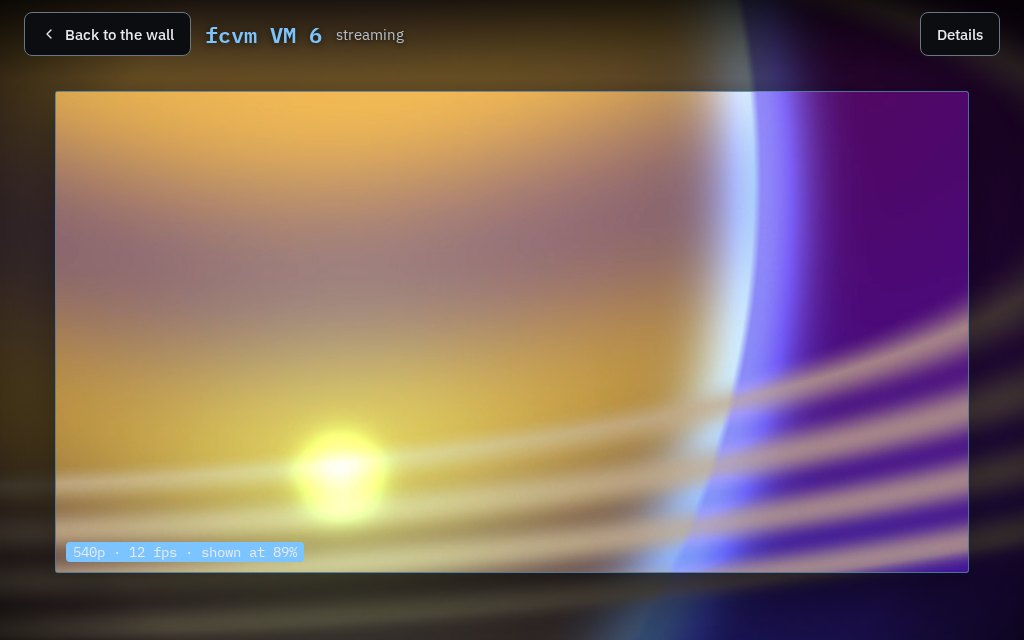
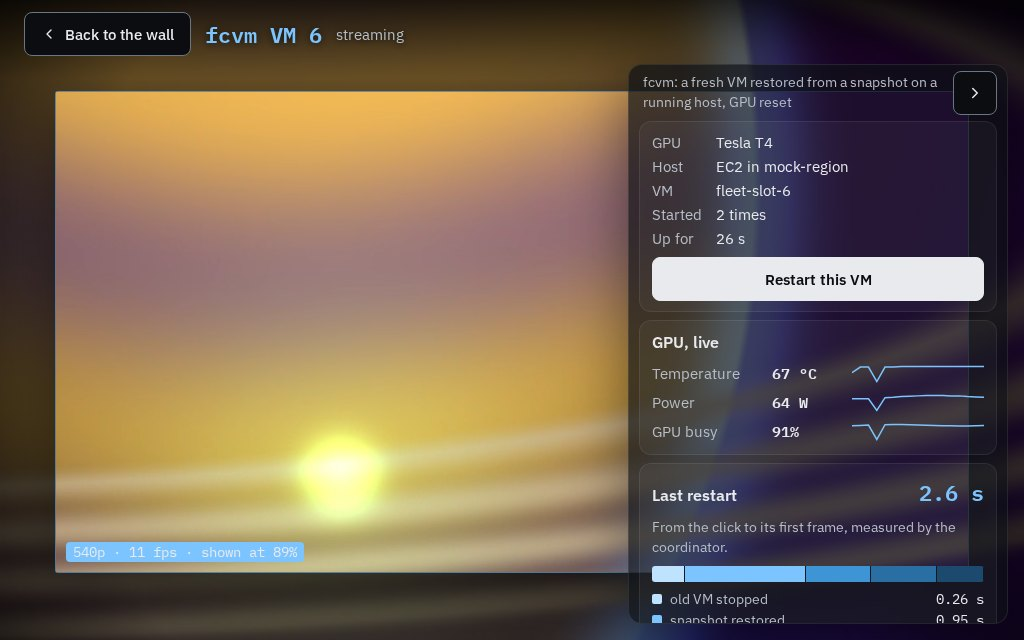
fleet web: show an opened VM's details, GPU graph and timeline without a click
Owner on #1373, live on staging: "The zoom is missing the gpu graph etc
when I click a tile, we shouldn't have lost the sidebar." #1373 opened the
side sheet only when the zoomed tile lay clear of it, which a 16:9 tile
never does, so the details, readings and timeline sat behind a Details
button; on a phone the bottom sheet started folded.

- The sheet starts open everywhere and still folds away (sheetClears is
  gone). On a wide screen it is the translucent sheet at the right.
- On a phone the tile sits at the top under the bar (ZoomInsets.align
  "top", 240 px kept below it) and the sheet starts right under it, so
  it covers none of the picture.
- The zoomed sheet's cards are tighter (padding, gaps, sparkline height),
  so at 1024 x 640 the rows, the restart button, the GPU graph and the
  timeline's heading and bar are all on screen without scrolling.

Test: e2e 'an opened VM shows its details, GPU graph and restart timeline
on screen without a click, on a desktop and on a phone'. It failed on
main 4583c26f (the sheet had no "open" class) and passes now. Layout test
for the phone's top alignment. The phone screenshots are the open sheet
and the folded one.

Tested: pnpm lint, pnpm typecheck, pnpm test (272 passed); Playwright
chromium with the seam and hover tests left out (they fail on main
without this change, see #1373): 46 passed; the screenshot spec passed.

Changed region(s): [[0.5938, 0.0938, 1.0, 1.0], [0.9062, 0.0312, 0.9688, 0.0625], [0.3125, 0.7188, 0.3438, 0.75]]

diff --git a/fleet/web/e2e/wall.spec.ts b/fleet/web/e2e/wall.spec.ts
@@ -1,6 +1,6 @@
 import { expect, test, devices, type Page } from "@playwright/test";
 import { seconds, thousands, utcDate } from "../core/format.ts";
-import { DETAIL_TILE_PX, layoutMosaic, sheetClears, streamHeightFor, zoomTarget } from "../core/layout.ts";
+import { DETAIL_TILE_PX, layoutMosaic, streamHeightFor, zoomTarget } from "../core/layout.ts";
 import { ZOOM_DIM_NEAR, ZOOM_SHEET_W, zoomInsetsFor } from "../core/view.ts";
 import { streamBitrate } from "../core/bandwidth.ts";
 import { COORD, admin, fleetNow, focusError, mockState, openWall, raceOver, seamReport, setSkew, setTimeOfDay } from "./helpers.ts";
@@ -425,15 +425,9 @@ test("an opened VM zooms to fill the screen at its detail height, with the tiles
   // Dimmed: at most 1 - ZOOM_DIM_NEAR of the brightness the same scene has in the opened tile.
   expect(fe.around).toBeLessThan(1 - ZOOM_DIM_NEAR + 0.08);
   expect(fe.around).toBeGreaterThan(0.05);
-  // The sheet starts open only where the tile lies clear of it; it folds away and comes back, and never moves the picture.
-  const clears = sheetClears({ x: 0, y: 0, w: vp.width, h: vp.height }, r, 16 / 9, zoomInsetsFor(false, ZOOM_SHEET_W + 16));
+  // The sheet starts open; it folds away and comes back, and never moves the picture.
   const sheet = page.getByTestId("focus-sheet");
-  if (clears) await expect(sheet).toHaveClass(/open/);
-  else {
-    await expect(sheet).not.toHaveClass(/open/);
-    await page.getByTestId("sheet-toggle").click();
-    await expect(sheet).toHaveClass(/open/);
-  }
+  await expect(sheet).toHaveClass(/open/);
   await page.getByTestId("sheet-hide").click();
   await expect(sheet).not.toHaveClass(/open/);
   expect(await page.evaluate(() => window.__fleet!.view().plan.zoom!.box)).toEqual(z.box);
@@ -460,6 +454,44 @@ test("an opened VM zooms to fill the screen at its detail height, with the tiles
   await page.getByRole("button", { name: "Back to the wall" }).click();
   await expect(page.getByTestId("focus")).toHaveCount(0);
   await expect.poll(() => page.evaluate(() => window.__fleet!.view().zoom)).toBeNull();
+});
+
+test("an opened VM shows its details, GPU graph and restart timeline on screen without a click, on a desktop and on a phone", async ({ page, browser }) => {
+  // `fits`: the whole sheet is on screen without scrolling (a laptop-sized window). A phone's sheet scrolls.
+  const check = async (p: Page, fits: boolean) => {
+    const t = await p.evaluate(() => window.__fleet!.view().tiles.find((x) => x.id === "fcvm:3")!.box!);
+    await p.mouse.click(t.x + t.w / 2, t.y + t.h / 2);
+    await expect(p.getByTestId("focus")).toBeVisible();
+    await expect.poll(() => p.evaluate(() => window.__fleet!.view().zoom?.dim ?? 0)).toBe(1);
+    const sheet = p.getByTestId("focus-sheet");
+    await expect(sheet).toHaveClass(/open/);
+    expect(await sheet.evaluate((el) => getComputedStyle(el).opacity)).toBe("1");
+    expect(await sheet.evaluate((el) => el.hasAttribute("inert") || el.querySelector("[inert]") !== null)).toBe(false);
+    for (const id of ["readings", "restart-one"]) await expect(p.getByTestId(id), id).toBeInViewport();
+    if (!fits) await p.getByTestId("timeline-total").scrollIntoViewIfNeeded();
+    await expect(p.getByTestId("timeline-total")).toBeInViewport();
+    await expect(p.locator(".zoom .phase-bar")).toBeInViewport();
+    await expect(p.locator(".zoom dl")).toContainText("GPU");
+    await expect(p.locator(".zoom dl")).toContainText("Up for");
+    // The GPU graph: a sparkline per reading once two samples have arrived.
+    await expect.poll(() => p.locator('[data-testid="readings"] polyline').count(), { timeout: 15_000 }).toBeGreaterThan(0);
+    await expect(p.locator('[data-testid="readings"] polyline').first()).toBeInViewport();
+    // The picture is not under the sheet's top edge: the opened VM is still on screen beside or above it.
+    const box = await p.evaluate(() => window.__fleet!.view().plan.zoom!.box!);
+    const sb = (await sheet.boundingBox())!;
+    expect(box.y).toBeLessThan(sb.y + sb.height);
+  };
+  await openWall(page, 15);
+  await check(page, true);
+  const ctx = await browser.newContext({ ...devices["iPhone 13"], deviceScaleFactor: 1 });
+  const phone = await ctx.newPage();
+  await openWall(phone, 3);
+  await check(phone, false);
+  // On a phone the sheet starts below the picture, so the whole opened VM stays in view.
+  const box = await phone.evaluate(() => window.__fleet!.view().plan.zoom!.box!);
+  const sb = (await phone.getByTestId("focus-sheet").boundingBox())!;
+  expect(box.y + box.h).toBeLessThanOrEqual(sb.y + 1);
+  await ctx.close();
 });
 
 test("a folded side sheet leaves the keyboard path, and focus goes back to its Details button", async ({ page }) => {

diff --git a/fleet/web/app/wall.css b/fleet/web/app/wall.css
@@ -245,16 +245,21 @@ h1, h2, h3, p { margin: 0; }
 .own nav { display: flex; align-items: center; gap: 14px; flex-wrap: wrap; }
 .sheet { position: absolute; top: 64px; right: 16px; bottom: 16px; width: 380px; max-width: calc(100vw - 32px); display: flex; flex-direction: column; border-radius: 14px; background: rgba(13, 16, 20, 0.7); border: 1px solid rgba(255, 255, 255, 0.09); backdrop-filter: blur(16px) saturate(1.2); -webkit-backdrop-filter: blur(16px) saturate(1.2); box-shadow: 0 20px 60px rgba(0, 0, 0, 0.45); transition: transform 240ms cubic-bezier(0.2, 0.7, 0.2, 1), opacity 200ms ease-out; }
 .sheet:not(.open) { transform: translateX(calc(100% + 24px)); opacity: 0; pointer-events: none; }
-.sheet-head { display: flex; align-items: center; justify-content: space-between; gap: 10px; padding: 10px 10px 4px 16px; }
+.sheet-head { display: flex; align-items: center; justify-content: space-between; gap: 10px; padding: 6px 10px 2px 14px; }
 .sheet-head .kind { font-size: 14px; color: var(--muted); }
 .btn.icon { min-width: 44px; padding: 0; justify-content: center; }
-.sheet-body { flex: 1; min-height: 0; overflow: auto; overscroll-behavior: contain; display: flex; flex-direction: column; gap: 12px; padding: 6px 12px 12px; }
-.zoom .card { background: rgba(255, 255, 255, 0.035); border-color: rgba(255, 255, 255, 0.08); }
+.sheet-body { flex: 1; min-height: 0; overflow: auto; overscroll-behavior: contain; display: flex; flex-direction: column; gap: 8px; padding: 4px 10px 10px; }
+/* Compact, so the details, the GPU graph and the restart timeline all fit an ordinary laptop screen without scrolling. */
+.zoom .card { background: rgba(255, 255, 255, 0.035); border-color: rgba(255, 255, 255, 0.08); padding: 10px 12px; gap: 8px; }
+.zoom .card dl { gap: 3px 14px; }
+.zoom .readings { gap: 4px; }
+.zoom .reading svg { height: 18px; }
+.zoom .legend { gap: 2px 12px; }
 .phone-zoom .zoom-bar { padding: 8px 12px 18px; gap: 4px 10px; }
 .phone-zoom .zoom-bar h1 { font-size: 18px; }
 .phone-zoom .zoom-bar .state { flex-basis: 100%; font-size: 14px; }
 .phone-zoom .zoom-ring .tag { left: 8px; bottom: 8px; }
-.phone-zoom .sheet { top: auto; left: 0; right: 0; bottom: 0; width: auto; max-width: none; max-height: min(70dvh, 620px); border-radius: 16px 16px 0 0; border-bottom: 0; padding-bottom: env(safe-area-inset-bottom); transform: translateY(calc(100% - 68px - env(safe-area-inset-bottom))); opacity: 1; pointer-events: auto; }
+.phone-zoom .sheet { top: auto; left: 0; right: 0; bottom: 0; width: auto; max-width: none; max-height: calc(100dvh - 56px); border-radius: 16px 16px 0 0; border-bottom: 0; padding-bottom: env(safe-area-inset-bottom); transform: translateY(calc(100% - 68px - env(safe-area-inset-bottom))); opacity: 1; pointer-events: auto; }
 .phone-zoom .sheet.open { transform: none; }
 .phone-zoom .sheet-head { padding: 0; }
 .sheet-handle { position: relative; flex: 1; min-width: 0; display: flex; align-items: center; gap: 12px; min-height: 68px; padding: 14px 16px 10px; background: none; border: 0; text-align: left; cursor: pointer; }

diff --git a/fleet/web/core/view.ts b/fleet/web/core/view.ts
@@ -762,6 +762,8 @@ export interface FocusView {
   readings: Reading[];
   /** Where the VM is drawn at this step of the zoom, and the height its stream is asked for. */
   placed: { box: Box; streamHeight: number } | null;
+  /** Where it ends once zoomed (a phone's bottom sheet starts under it). */
+  target: Box | null;
 }
 
 /** The renderer's own resolution for one tile: what the viewer's own GPU asks for. */
@@ -774,12 +776,12 @@ export const ZOOM_DIM_FAR = 0.82;
 export const ZOOM_SHEET_W = 380;
 
 /**
- * Room an opened VM leaves around it. On a phone it is full width, under a bar and above the
- * bottom sheet's handle; elsewhere a margin all round wide enough to show the tiles next to it,
+ * Room an opened VM leaves around it. On a phone it is full width, at the top under a bar, with at
+ * least 240 px below it for the bottom sheet; elsewhere a margin all round wide enough to show the tiles next to it,
  * with the bar over the top, and clear of a side sheet `sheet` wide when that costs no size.
  */
 export function zoomInsetsFor(phone: boolean, sheet: number): ZoomInsets {
-  return phone ? { top: 56, right: 0, bottom: 76, left: 0, sheet: 0 } : { top: 72, right: 56, bottom: 48, left: 56, sheet };
+  return phone ? { top: 56, right: 0, bottom: 240, left: 0, sheet: 0, align: "top" } : { top: 72, right: 56, bottom: 48, left: 56, sheet };
 }
 
 function sparkline(samples: readonly GpuSample[], key: "temp_c" | "power_w" | "util_pct"): string {
@@ -818,6 +820,7 @@ function focusView(
   srvNow: number,
   online: boolean,
   placed: { box: Box; streamHeight: number } | null,
+  target: Box | null,
 ): FocusView {
   const fs = s.frames?.tiles[`d:${t.id}`];
   const lr = t.last_relaunch;
@@ -864,6 +867,7 @@ function focusView(
     readingsTitle: "GPU, live",
     readings,
     placed,
+    target,
   };
 }
 
@@ -1521,7 +1525,7 @@ export function wallView(input: WallInput): WallView {
     return b && zArea && boxesMeet(b, zArea) ? b : null;
   };
   const focusPlaced = zoom?.focus && focusTile && zoom.focus.id === focusTile.id ? { box: zoom.focus.box, streamHeight: detailHeight ?? zoom.focus.streamHeight } : null;
-  const focus = focusTile ? focusView(s, tiles.find((x) => x.id === focusTile.id)!, focusTile, input, srvNow, online, focusPlaced) : null;
+  const focus = focusTile ? focusView(s, tiles.find((x) => x.id === focusTile.id)!, focusTile, input, srvNow, online, focusPlaced, opening && zArea ? zoomTarget(zArea, opening.rect, st.image_aspect, insets) : null) : null;
   const covered = focus !== null || own !== null || zoom !== null;
 
   // Direct: each tile asks for the device pixels it covers. With the viewer's own GPU on screen

diff --git a/fleet/web/app/_wall/FocusPanel.tsx b/fleet/web/app/_wall/FocusPanel.tsx
@@ -3,8 +3,8 @@
 // One VM opened: the canvas zooms the image until that VM fills the screen, with the
 // tiles around it dimmed (core/view.ts, plan.zoom). This overlay draws what sits over
 // the picture: a bar with the way back, an outline on the VM, and a sheet with its
-// details, restart timeline and live GPU readings. The sheet lies over the picture
-// (a side sheet on a wide screen, a bottom sheet on a phone) and folds away.
+// details, restart timeline and live GPU readings. The sheet starts open (over the
+// picture's right side on a wide screen, under the picture on a phone) and folds away.
 
 import { useEffect, useRef, type CSSProperties } from "react";
 import type { Direction, FocusView, TimelineStep } from "../../core/index.ts";
@@ -135,7 +135,10 @@ export function FocusPanel({
         ) : null}
       </nav>
       {/* Folded on a wide screen the sheet is off screen and out of the keyboard path; on a phone its handle stays. */}
-      <aside id="focus-sheet" className={`sheet${sheetOpen ? " open" : ""}`} data-testid="focus-sheet" aria-label={`${focus.title} details`} inert={!phone && !sheetOpen}>
+      <aside id="focus-sheet" className={`sheet${sheetOpen ? " open" : ""}`} data-testid="focus-sheet" aria-label={`${focus.title} details`}
+        inert={!phone && !sheetOpen}
+        style={phone && focus.target ? { top: Math.round(focus.target.y + focus.target.h + 8) } : undefined}
+      >
         <div className="sheet-head">
           {phone ? (
             <button type="button" className="sheet-handle" aria-expanded={sheetOpen} aria-controls="focus-sheet" onClick={() => onSheet(!sheetOpen)} data-testid="sheet-toggle">

diff --git a/fleet/web/core/test/layout-sync.test.ts b/fleet/web/core/test/layout-sync.test.ts
@@ -5,7 +5,6 @@ import {
   fitContain,
   layoutMosaic,
   layoutZoom,
-  sheetClears,
   zoomTarget,
   tileAspectOf,
   MAX_TILE_PX,
@@ -130,13 +129,12 @@ describe("one tile opened: the image zoomed around it", () => {
     const flat = zoomTarget({ x: 0, y: 0, w: 1600, h: 1000 }, fleet(1, 2).tiles[0]!.rect, 16 / 9, desk);
     expect(flat.w).toBeCloseTo(1552, 6);
     expect(flat.x).toBeCloseTo(24, 6);
-    // The sheet starts open only where the tile at full size lies clear of it.
-    expect(sheetClears(stage, r, 16 / 9, desk)).toBe(true);
-    expect(sheetClears({ x: 0, y: 0, w: 1600, h: 1000 }, fleet(1, 2).tiles[0]!.rect, 16 / 9, desk)).toBe(false);
     // A phone: full width, between the bar and the sheet's handle.
-    const phone = zoomTarget({ x: 0, y: 0, w: 390, h: 844 }, fleet(1, 2).tiles[0]!.rect, 16 / 9, { top: 56, right: 0, bottom: 76, left: 0, sheet: 0 });
+    // A phone: full width, at the top under the bar, so the sheet below it covers none of it.
+    const phone = zoomTarget({ x: 0, y: 0, w: 390, h: 844 }, fleet(1, 2).tiles[0]!.rect, 16 / 9, { top: 56, right: 0, bottom: 240, left: 0, sheet: 0, align: "top" });
     expect(phone.w).toBe(390);
     expect(phone.h).toBeCloseTo((390 * 9) / 16, 6);
+    expect(phone.y).toBe(56);
   });
 
   it("puts the opened tile on its target and every other tile where its wall rectangle says, sharing its edges", () => {

diff --git a/fleet/web/app/_wall/Wall.tsx b/fleet/web/app/_wall/Wall.tsx
@@ -19,7 +19,6 @@ import {
   tileAt,
   ZOOM_MS,
   ZOOM_SHEET_W,
-  sheetClears,
   zoomInsetsFor,
   readingOrder,
   screenToImage,
@@ -368,12 +367,10 @@ export function Wall({ coordUrl, mediaUrl }: { coordUrl: string; mediaUrl: strin
   const zoom = useZoomStep(state.ui.focusId, reducedMotion);
   const zoomArea = useMemo(() => (viewport.w > 0 ? { x: 0, y: 0, w: viewport.w, h: viewport.h } : null), [viewport.w, viewport.h]);
   const zoomInsets = useMemo(() => zoomInsetsFor(phone, phone ? 0 : ZOOM_SHEET_W + 16), [phone]);
-  // The sheet over an opened tile starts open on a wide screen where the tile lies clear of it, and
-  // folded otherwise (always to its handle on a phone), until the viewer opens or folds it.
+  // The sheet with an opened tile's details starts open, beside it on a wide screen and under it on a
+  // phone, until the viewer folds it.
   const [sheetChoice, setSheetChoice] = useState<boolean | null>(null);
-  const focusRect = state.accepted?.tiles.find((t) => t.id === state.ui.focusId)?.rect ?? null;
-  const sheetOpen =
-    sheetChoice ?? (!phone && zoomArea !== null && focusRect !== null && sheetClears(zoomArea, focusRect, state.accepted!.image_aspect, zoomInsets));
+  const sheetOpen = sheetChoice ?? true;
   const view = useMemo(
     () =>
       wallView({

diff --git a/fleet/web/core/layout.ts b/fleet/web/core/layout.ts
@@ -160,6 +160,8 @@ export interface ZoomInsets {
   left: number;
   /** Width of a side sheet over the right edge, which the tile moves clear of when it can without shrinking. */
   sheet: number;
+  /** Where the tile sits in the room left: centred, or at its top (a phone, with the sheet below it). */
+  align?: "center" | "top";
 }
 
 /**
@@ -175,13 +177,7 @@ export function zoomTarget(area: Box, rect: Rect, imageAspect: number, insets: Z
   };
   const fit = fitContain(inner, tileAspectOf(rect, imageAspect));
   const clear = area.x + area.w - insets.sheet - fit.w;
-  return { ...fit, x: Math.max(inner.x, Math.min(fit.x, clear)) };
-}
-
-/** Whether an opened tile, at full size, lies clear of the side sheet: then the sheet starts open. */
-export function sheetClears(area: Box, rect: Rect, imageAspect: number, insets: ZoomInsets): boolean {
-  const z = zoomTarget(area, rect, imageAspect, insets);
-  return z.x + z.w <= area.x + area.w - insets.sheet + 0.5;
+  return { ...fit, x: Math.max(inner.x, Math.min(fit.x, clear)), y: insets.align === "top" ? inner.y : fit.y };
 }
 
 /** The image box that puts the tile with rectangle `rect` exactly on `target`. */

diff --git a/fleet/web/e2e/screenshots.spec.ts b/fleet/web/e2e/screenshots.spec.ts
@@ -115,7 +115,7 @@ test("screenshots", async ({ page, browser }) => {
   await openWall(phone, 3, "aggregated");
   await phone.waitForTimeout(800);
   await shot(phone, "phone");
-  // An opened VM on a phone: full width, the tiles around it dimmed, the sheet folded to its handle, then open.
+  // An opened VM on a phone: full width at the top, the tiles around it dimmed, its details below; then folded.
   const pt = await tileBox(phone, "fcvm:6");
   await phone.mouse.click(pt.x + pt.w / 2, pt.y + pt.h / 2);
   await expect(phone.getByTestId("focus-stream")).toContainText(/^\d+p · \d+ fps/, { timeout: 15_000 });
@@ -123,7 +123,7 @@ test("screenshots", async ({ page, browser }) => {
   await shot(phone, "phone-tile-opened");
   await phone.getByTestId("sheet-toggle").click();
   await phone.waitForTimeout(500);
-  await shot(phone, "phone-tile-details");
+  await shot(phone, "phone-tile-folded");
   await ctx.close();
 
   // Leave the fleet at rest.

diff --git a/fleet/web/README.md b/fleet/web/README.md
@@ -260,12 +260,13 @@ the far corners), so the scene runs on past its edges. Its stream asks for the h
 covers its box, up to the renderer's measured detail view (`DETAIL_TILE_PX`, 1080 x 1080 at
 30 fps): 1080 for a square tile, 720 for a 16:9 one. A sheet over the picture holds the
 timeline of its last restart as the coordinator measured it and its GPU's temperature,
-power and load with two minutes of history: at the right on a wide screen (it folds away,
-and the tile moves clear of it only when that costs no size), at the bottom on a phone,
-where the tile is full width and the sheet starts folded to a handle. A click on a dimmed
+power and load with two minutes of history. It starts open: at the right on a wide screen,
+translucent over the picture (the tile moves clear of it when that costs no size), and under
+the picture on a phone, where the tile is full width at the top. It folds away (to a handle on
+a phone) and comes back. A click on a dimmed
 tile, or an arrow key, opens that tile instead.
 
-<img src="docs/screenshots/phone-tile-opened.jpg" alt="An opened VM on a phone" width="260"> <img src="docs/screenshots/phone-tile-details.jpg" alt="Its details on a phone" width="260">
+<img src="docs/screenshots/phone-tile-opened.jpg" alt="An opened VM on a phone" width="260"> <img src="docs/screenshots/phone-tile-folded.jpg" alt="Its details folded on a phone" width="260">
 
 ## Measurements
 
